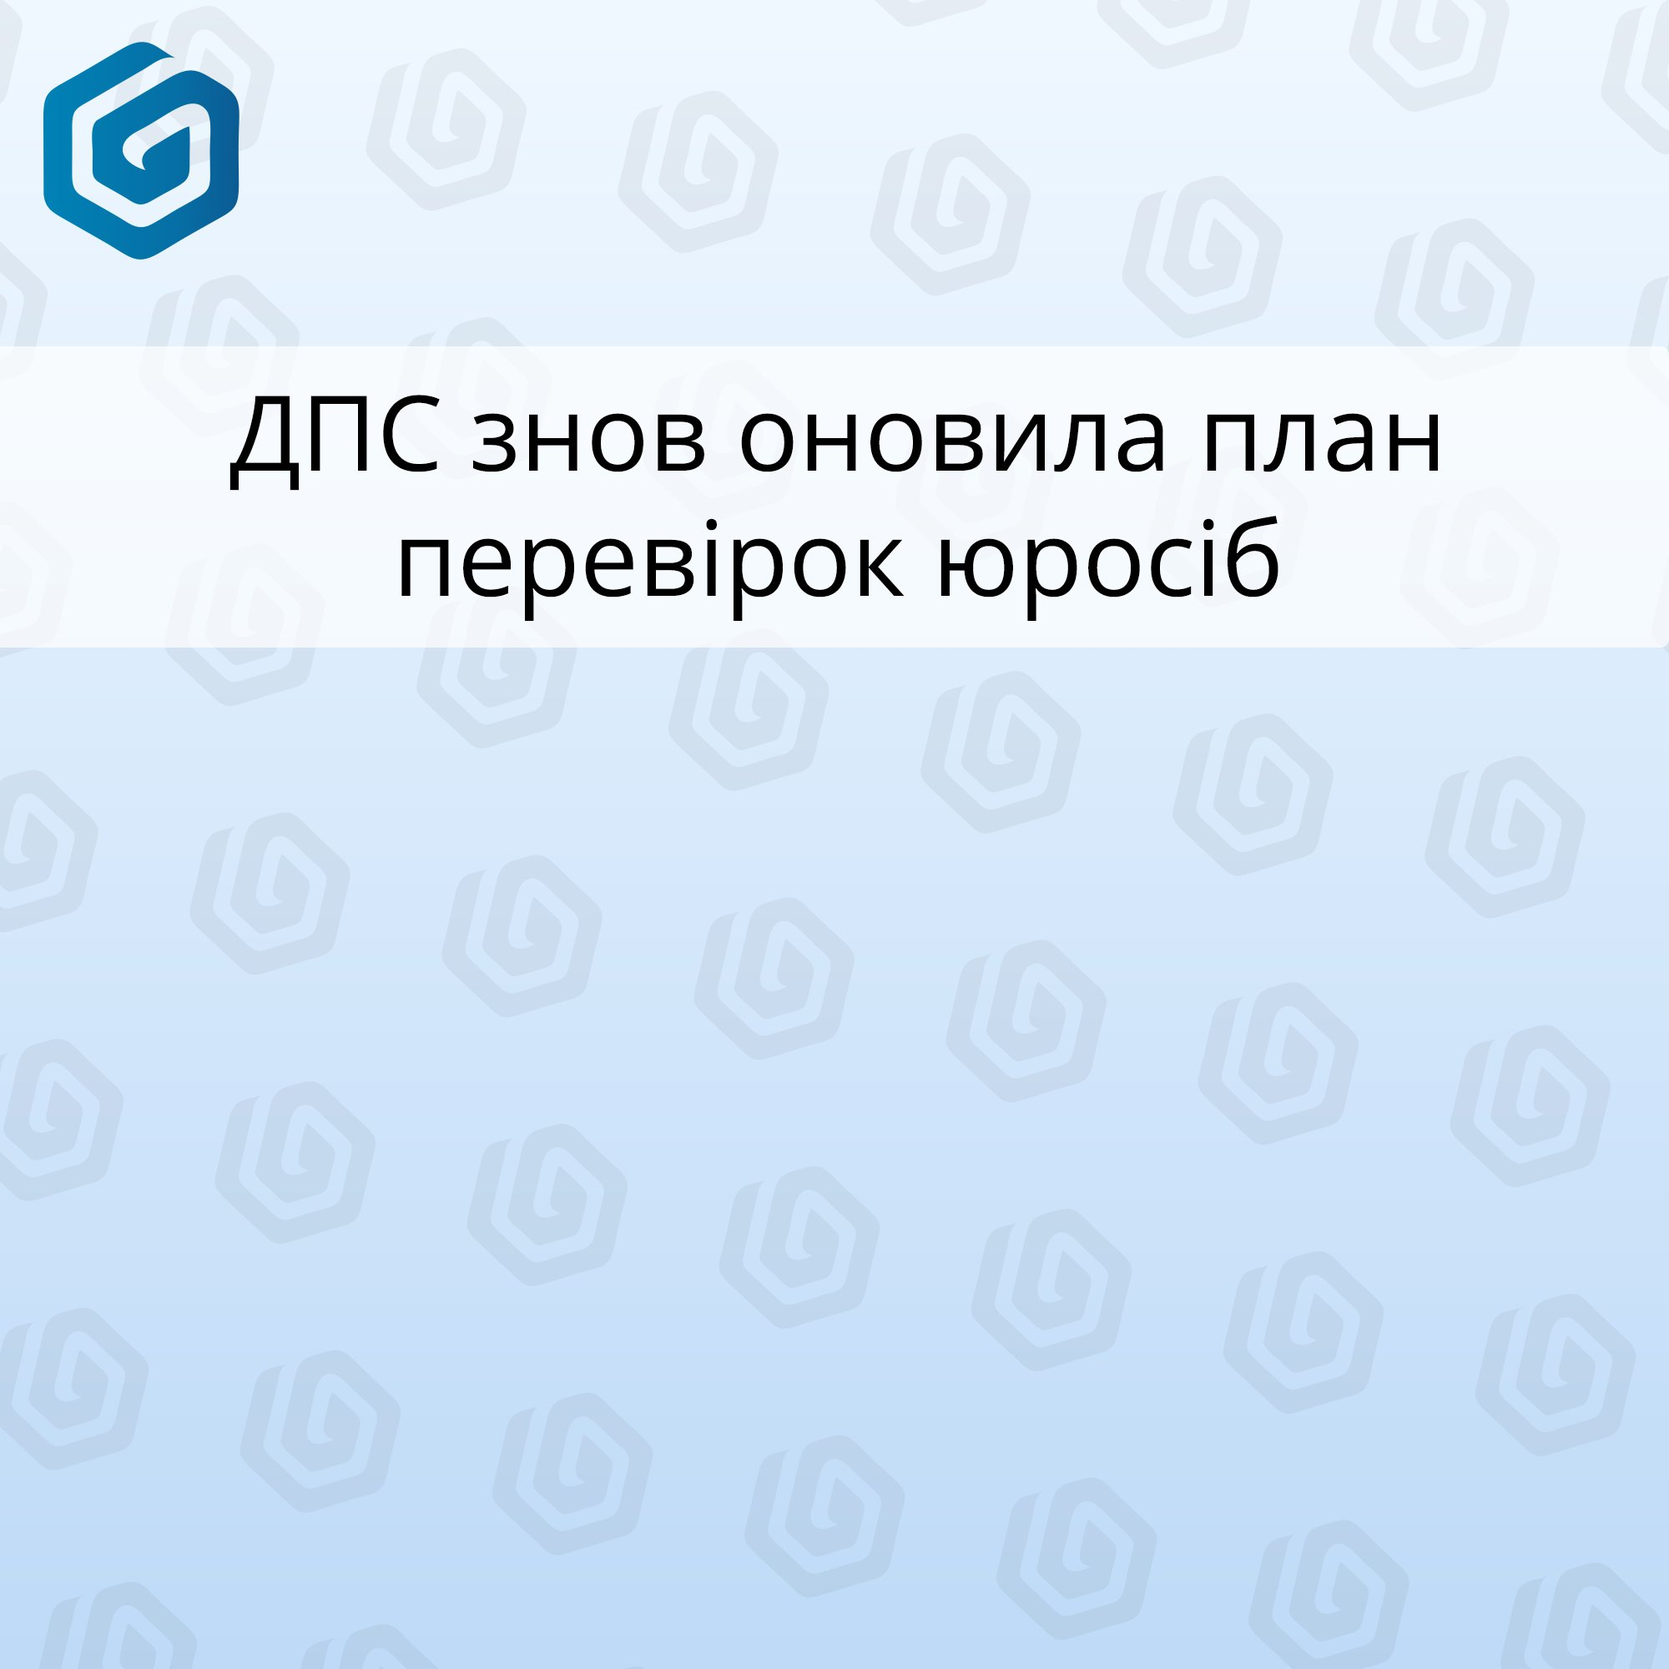
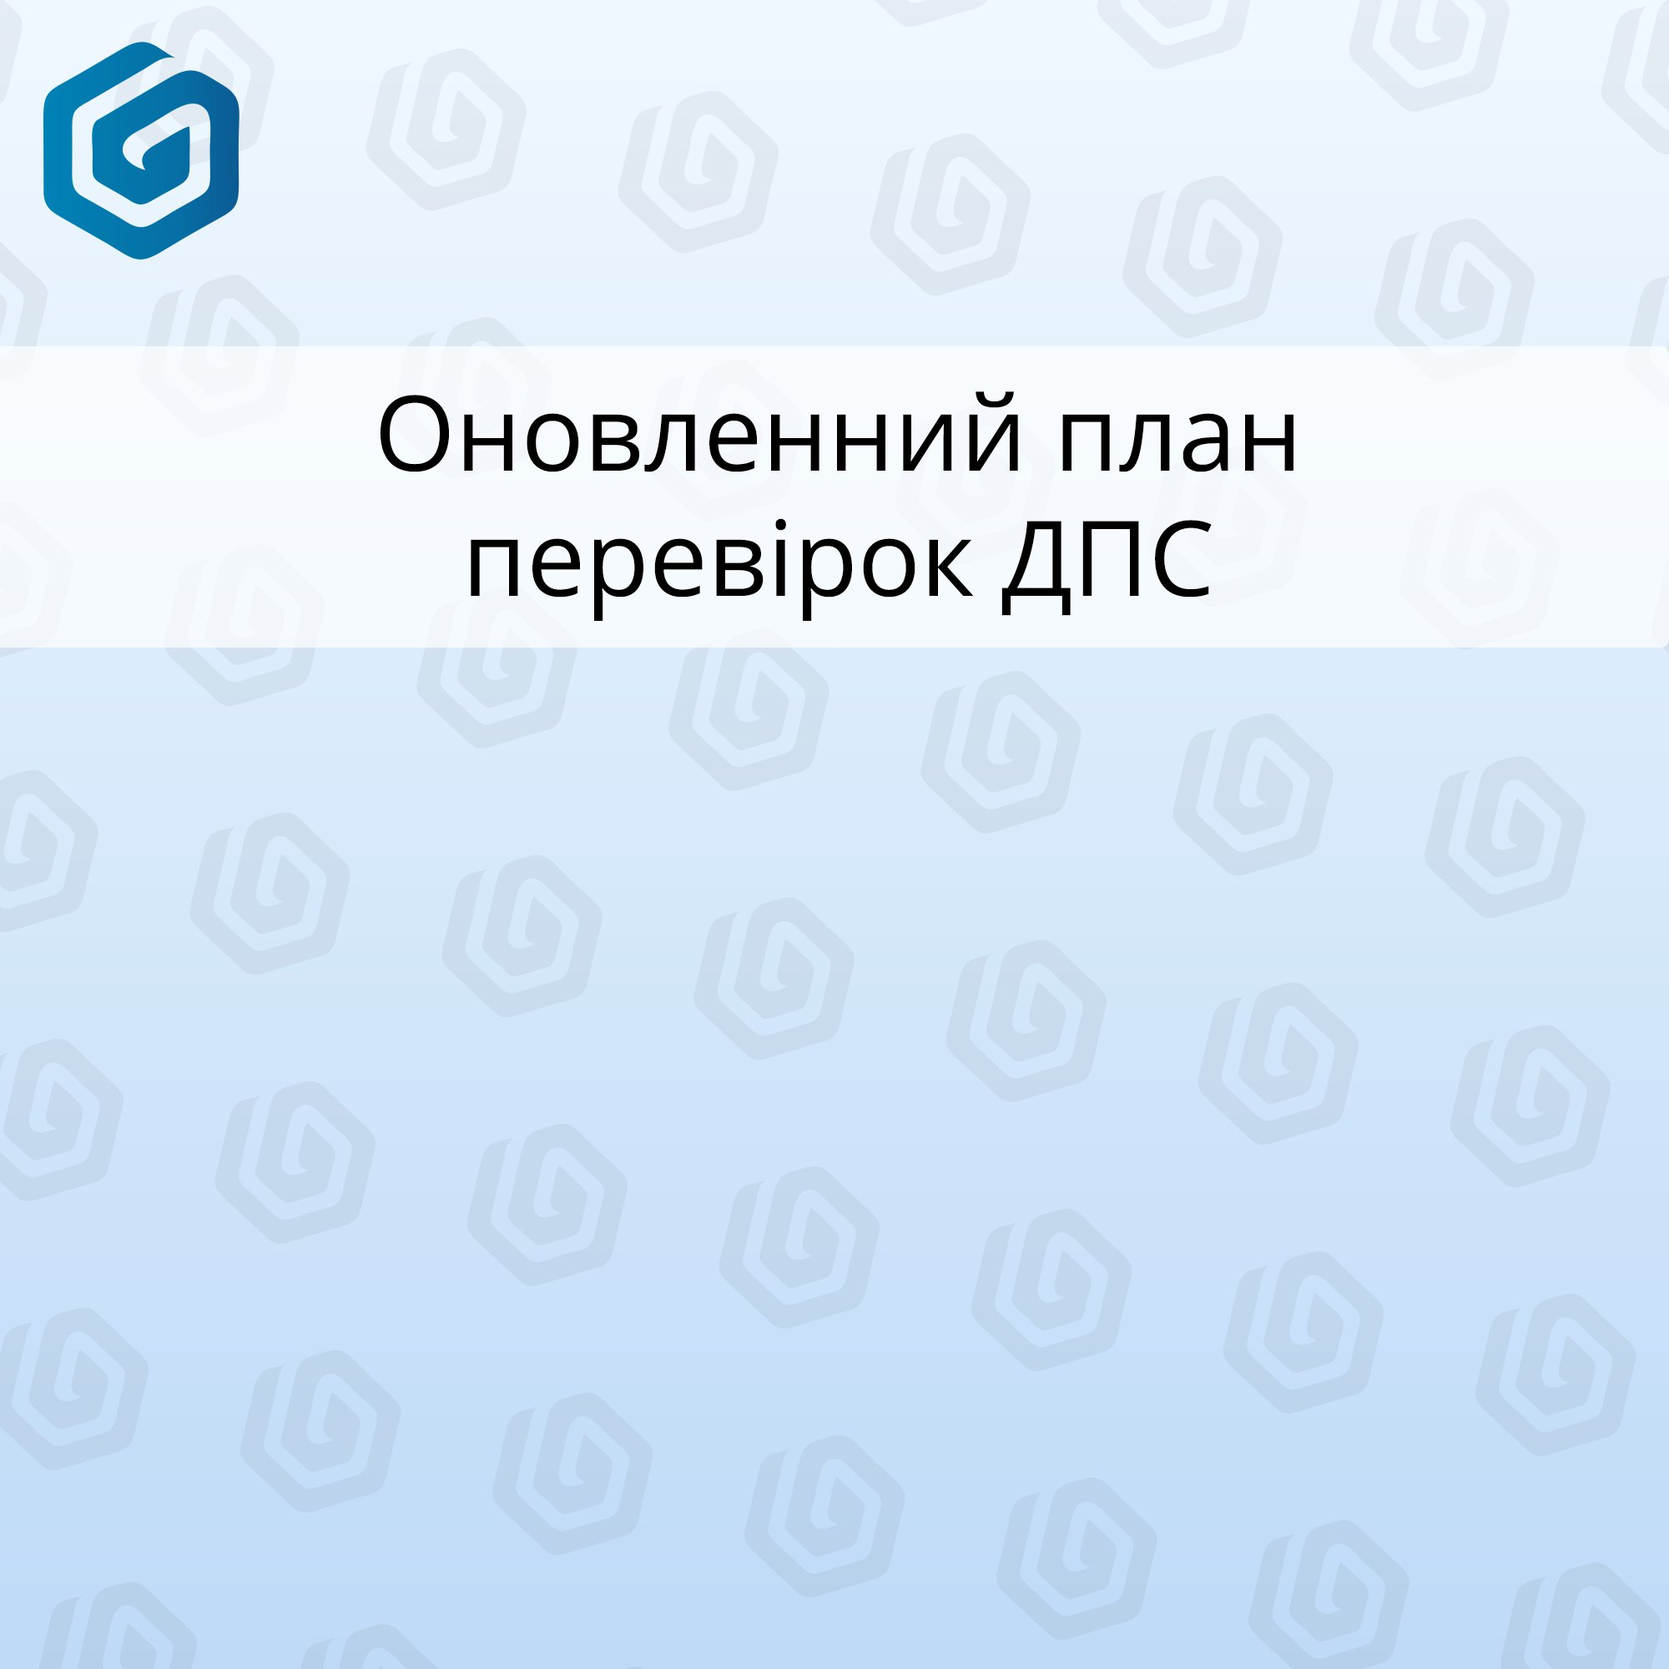
new post 19

Changed region(s): [[0.217, 0.31, 0.775, 0.372], [0.124, 0.217, 0.868, 0.31]]

diff --git a/News-third-page.html b/News-third-page.html
@@ -73,6 +73,30 @@
         <!---------------------------------------------------->
 
         <div class="news indentation">
+          <img src="assets/news/4.jpg" alt="">
+
+          <h3>Захист від блокування ПН</h3>
+
+
+          <p>Нагадуємо, що 30 жовтня 2023 року останій день сплати подадтків, а саме:</p>
+          <ul>
+            <li>податку на нерухоме майно</li>
+            <li>транспортного податку;</li>
+            <li>плату за землю;  </li>
+            <li>податку на додану вартість;  </li>
+            <li>акцизного податку;  </li>
+            <li>нарахуваня за вересень гірничими підприємствами за найманих працівників;  </li>
+            <li>податки на доходи фізичних осіб від оподаткування доходів за вересень;  </li>
+            <li>податки військового збору від оподаткування доходів за вересень;  </li>
+            <li>податки за рентну плату за вересень;  </li>
+          </ul>
+
+        </div>
+        <!---------------------------------------------------->
+        <!---------------------------------------------------->
+        <!---------------------------------------------------->
+
+        <div class="news indentation">
           <img src="assets/news/3.jpg" alt="">
 
           <h3>Нова звітність</h3>
@@ -155,26 +179,26 @@
 <!--        </div>-->
 
 
-        <div class="news indentation" style="opacity: 0">
-          <img src="assets/news/14.jpg" alt="">
+<!--        <div class="news indentation" style="opacity: 0">-->
+<!--          <img src="assets/news/14.jpg" alt="">-->
 
-          <h3>Згідно із податковим календарем, 29 лютого 2024 року - останній день подання:</h3>
+<!--          <h3>Згідно із податковим календарем, 29 лютого 2024 року - останній день подання:</h3>-->
 
-          <ul>
-            <li>Розрахунку частини чистого прибутку (доходу), дивідендів на державну частку за 2023 рік;</li>
-            <li>Податкової декларації з податку на прибуток підприємств за 2023 рік;</li>
-            <li>Звіту про використання доходів (прибутків) неприбуткової організації за 2023 рік;</li>
-            <li>Звіту про контрольовані іноземні компанії за 2022 та 2023 звітні роки;</li>
-            <li>Звіту про контрольовані іноземні компанії за скороченою формою за 2023 рік;</li>
-            <li>Податкової декларації платника єдиного податку для платників І та ІІ груп за 2023 рік.</li>
-          </ul>
+<!--          <ul>-->
+<!--            <li>Розрахунку частини чистого прибутку (доходу), дивідендів на державну частку за 2023 рік;</li>-->
+<!--            <li>Податкової декларації з податку на прибуток підприємств за 2023 рік;</li>-->
+<!--            <li>Звіту про використання доходів (прибутків) неприбуткової організації за 2023 рік;</li>-->
+<!--            <li>Звіту про контрольовані іноземні компанії за 2022 та 2023 звітні роки;</li>-->
+<!--            <li>Звіту про контрольовані іноземні компанії за скороченою формою за 2023 рік;</li>-->
+<!--            <li>Податкової декларації платника єдиного податку для платників І та ІІ груп за 2023 рік.</li>-->
+<!--          </ul>-->
 
 
-          <p>
-            Крім того, 29 лютого останній день сплати авансового внеску з податку на прибуток підприємств з пунктів обміну іноземних валют за лютий 2024 року.
-          </p>
+<!--          <p>-->
+<!--            Крім того, 29 лютого останній день сплати авансового внеску з податку на прибуток підприємств з пунктів обміну іноземних валют за лютий 2024 року.-->
+<!--          </p>-->
 
-        </div>
+<!--        </div>-->
 
         <!---------------------------------------------------->
 

diff --git a/News.html b/News.html
@@ -72,6 +72,24 @@
       <!---------------------------------------------------->
       <!---------------------------------------------------->
       <div class="news indentation">
+        <img src="assets/news/19.jpg" alt="">
+
+        <h3>Оновленний план перевірок ДПС</h3>
+
+        <p>Зміни до плану-графіка перевірок ДПС може вносити щомісяця. При цьому перевірка може починатися не раніше, ніж через два місяці з дня оприлюднення оновленого плану-графіка.
+        </p>
+
+        <p>На жаль, оновлений план перевірок містить більшу кількість суб'єктів господарювання, ніж його попередня версія. Тому радимо Вам перевірити цей перелік, щоб переконатися, що цього разу Ваше підприємство не включили до плану перевірок.</p>
+
+
+      </div>
+      <!---------------------------------------------------->
+      <!---------------------------------------------------->
+      <!---------------------------------------------------->
+      <!---------------------------------------------------->
+      <!---------------------------------------------------->
+
+      <div class="news indentation">
         <img src="assets/news/18.jpg" alt="">
 
         <h3>З 21 березня діє оновленний Перелік ТОТ та територій бойових дій</h3>
@@ -208,24 +226,6 @@
 
 
       </div>
-      <!---------------------------------------------------->
-      <!---------------------------------------------------->
-      <!---------------------------------------------------->
-      <!---------------------------------------------------->
-      <div class="news indentation">
-        <img src="assets/news/12.jpg" alt="">
-
-        <h3>29 грудня останній день для зарахування платежів</h3>
-
-        <p>Податкові платежі та єдиний внесок, сплачені через Систему електронних платежів НБУ 29 грудня 2023 року, Казначейством будуть зараховані на бюджетні/небюджетні рахунки, в тому числі на рахунки, відкриті в СЕА ПДВ і реалізації пального та спирту етилового, єдиний рахунок у 2023 році.
-        </p>
-
-        <p>Платники податків з 30 грудня 2023 року по 01 січня 2024 року включно не зможуть здійснювати податкові платежі та ЄСВ через СЕП НБУ, у зв’язку із проведенням Казначейством технічних робіт.</p>
-
-        <p>З 2 січня 2024 року Казначейство в СЕП НБУ працюватиме у звичайному режимі.</p>
-
-      </div>
-      <!---------------------------------------------------->
       <!---------------------------------------------------->
       <!---------------------------------------------------->
       <!---------------------------------------------------->

diff --git a/News-second-page.html b/News-second-page.html
@@ -70,6 +70,23 @@
         <!--------------------------------------------------------->
 
         <div class="news indentation">
+          <img src="assets/news/12.jpg" alt="">
+
+          <h3>29 грудня останній день для зарахування платежів</h3>
+
+          <p>Податкові платежі та єдиний внесок, сплачені через Систему електронних платежів НБУ 29 грудня 2023 року, Казначейством будуть зараховані на бюджетні/небюджетні рахунки, в тому числі на рахунки, відкриті в СЕА ПДВ і реалізації пального та спирту етилового, єдиний рахунок у 2023 році.
+          </p>
+
+          <p>Платники податків з 30 грудня 2023 року по 01 січня 2024 року включно не зможуть здійснювати податкові платежі та ЄСВ через СЕП НБУ, у зв’язку із проведенням Казначейством технічних робіт.</p>
+
+          <p>З 2 січня 2024 року Казначейство в СЕП НБУ працюватиме у звичайному режимі.</p>
+
+        </div>
+
+        <!--------------------------------------------------------->
+        <!--------------------------------------------------------->
+
+        <div class="news indentation">
           <img src="assets/news/11.jpg" alt="">
 
           <h3>До 20 грудня необхідно проінформувати ТЦК</h3>
@@ -259,26 +276,7 @@
 
         <!---------------------------------------------------->
 
-        <div class="news indentation">
-          <img src="assets/news/4.jpg" alt="">
 
-          <h3>Захист від блокування ПН</h3>
-
-
-          <p>Нагадуємо, що 30 жовтня 2023 року останій день сплати подадтків, а саме:</p>
-          <ul>
-            <li>податку на нерухоме майно</li>
-            <li>транспортного податку;</li>
-            <li>плату за землю;  </li>
-            <li>податку на додану вартість;  </li>
-            <li>акцизного податку;  </li>
-            <li>нарахуваня за вересень гірничими підприємствами за найманих працівників;  </li>
-            <li>податки на доходи фізичних осіб від оподаткування доходів за вересень;  </li>
-            <li>податки військового збору від оподаткування доходів за вересень;  </li>
-            <li>податки за рентну плату за вересень;  </li>
-          </ul>
-
-        </div>
 
 
         <!---------------------------------------------------->

diff --git a/index.html b/index.html
@@ -259,6 +259,15 @@
                 <!---------------------------------------------------->
 
                 <div class="news">
+                    <img src="assets/news/19.jpg" alt="" style="height: 80%">
+
+                    <h3>Оновленний план перевірок ДПС</h3>
+
+                </div>
+                <!---------------------------------------------------->
+                <!---------------------------------------------------->
+
+                <div class="news">
                     <img src="assets/news/18.jpg" alt="" style="height: 80%">
 
                     <h3>З 21 березня діє оновленний Перелік ТОТ та територій бойових дій</h3>
@@ -285,14 +294,7 @@
                 <!---------------------------------------------------->
                 <!---------------------------------------------------->
 
-                <div class="news">
-                    <img src="assets/news/15.jpg" alt="" style="height: 80%">
 
-                    <h3>1 березня останній день сплати податків за січень</h3>
-
-                </div>
-                <!---------------------------------------------------->
-                <!---------------------------------------------------->
 
             </div>
 
